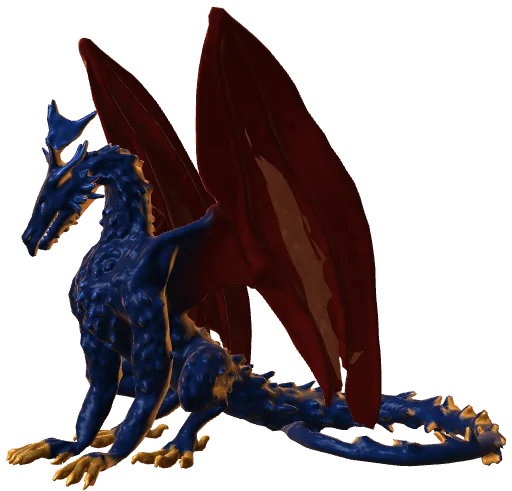
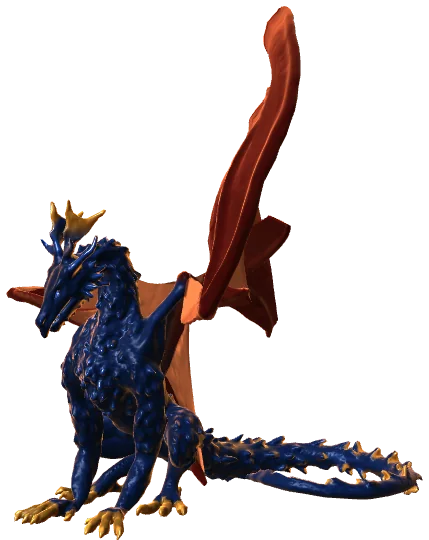
A grander dragon: wings that open at the roost, gold horns, a long sweep across the sun, larger at the breach

diff --git a/src/world/dragonStations.js b/src/world/dragonStations.js
@@ -59,7 +59,7 @@ export function createDragonStations({ live, phone, C }) {
   const LIGHT = {
     sea: { keyDir: [0.25, 0.9, 0.35], key: v('sea-ray', 0.95), lowDir: [0, -1, 0.2], low: v('sea-shallow', 0.5), amb: v('sea-shallow', 1.15), hide: v('dragon-hide', 1.25), belly: v('dragon-belly', 0.8), wing: v('dragon-wing', 0.9), rim: v('sea-ray', 0.9), glow: v('dragon-glow'), fogK: 0.0011, caust: 0.55, rimGain: 0.85, fire: 0.55, thin: 0.22, split: 0 },
     dusk: { keyDir: [0.5, 0.22, -0.7], key: v('sun', 1.5), lowDir: [-0.3, -0.8, 0.5], low: v('dusk-low', 0.4), amb: v('dusk-mid', 1.3), hide: v('dragon-hide', 1.6), belly: v('dragon-belly'), wing: v('dragon-wing'), rim: v('earth-rim', 1), glow: v('dragon-glow'), fog: v('dusk-low', 0.82), fogK: 0.0009, caust: 0, rimGain: 1.25, fire: 0.9, thin: 0.42, split: 1 },
-    night: { keyDir: [-0.5, 0.62, 0.6], key: v('moon-rim', 1.1), lowDir: [0.25, -0.85, 0.45], low: v('ember', 0.6), amb: v('night-low', 3.2), hide: v('dragon-hide'), belly: v('dragon-belly'), wing: v('dragon-wing'), rim: v('ember', 1), glow: v('dragon-glow'), fog: v('night-low'), fogK: 0, caust: 0, rimGain: 1.1, fire: 1.4, thin: 0.5, split: 0 },
+    night: { keyDir: [-0.5, 0.62, 0.6], key: v('moon-rim', 1.1), lowDir: [0.25, -0.85, 0.45], low: v('ember', 0.6), amb: v('night-low', 3.2), hide: v('dragon-hide'), belly: v('dragon-belly'), wing: v('dragon-wing'), rim: v('ember', 1), glow: v('dragon-glow'), fog: v('night-low'), fogK: 0, caust: 0, rimGain: 1.1, fire: 1.4, thin: 0.22, split: 0 },
     dawn: { keyDir: [-0.62, 0.12, -0.6], key: v('sun', 1.25), lowDir: [-0.3, -0.8, 0.5], low: v('earth-rim', 0.75), amb: v('night-low', 2.6), hide: v('dragon-hide'), belly: v('dragon-belly'), wing: v('dragon-wing'), rim: v('earth-rim', 1), glow: v('dragon-glow'), fog: v('night-low', 1.4), fogK: 0.0004, caust: 0, rimGain: 1.3, fire: 1, thin: 0.42, split: 0 },
   };
   let lit = '';
@@ -99,27 +99,29 @@ export function createDragonStations({ live, phone, C }) {
     const shore = anchorRect('shore');
     st.breach = null;
     if (shore && shore.h > 300) {
-      const size = phone ? Math.min(17, (w * 0.8) / MODEL.span) : Math.max(22, Math.min(34, w / 42));
+      const size = phone ? Math.min(17, (w * 0.8) / MODEL.span) : Math.max(24, Math.min(40, w / 36));
       // x in window widths, y in window heights (both from the middle), z in px
       const way = phone
         ? [
             [0.14, 0.95, 60],
             [0.16, 0.62, 40],
             [0.16, 0.3, 10],
-            [0.12, 0.04, -40],
-            [0.06, -0.2, -260],
-            [0.12, -0.2, -800],
-            [0.2, -0.12, -1500],
+            [0.06, 0.04, -40],
+            [-0.1, -0.14, -160],
+            [0.04, -0.2, -300],
+            [0.2, -0.16, -520],
+            [0.5, -0.2, -1200],
           ]
         : [
-            [0.26, 1.05, 80],
-            [0.25, 0.68, 60],
-            [0.24, 0.34, 20],
-            [0.24, 0.08, -60],
-            [0.25, -0.1, -260],
-            [0.26, -0.16, -700],
-            [0.225, -0.12, -1300],
-            [0.22, -0.08, -1900],
+            [0.25, 1.1, 80],
+            [0.24, 0.7, 60],
+            [0.22, 0.36, 20],
+            [0.17, 0.1, -40],
+            [0.08, -0.08, -160],
+            [0.12, -0.16, -320],
+            [0.24, -0.12, -480],
+            [0.38, -0.14, -800],
+            [0.52, -0.2, -1500],
           ];
       st.breach = { rect: shore, size, path: makePath(way), boxes: boxesOf(shore), band: [shore.top, shore.bottom] };
     }
@@ -143,13 +145,13 @@ export function createDragonStations({ live, phone, C }) {
       }
       const ceiling = over ? over.getBoundingClientRect().bottom + y0 + 10 : roost.top;
       // Head to the left and toward the reader, tail away to the right: about 12 units wide, 8.4 tall.
-      const wide = 13.5;
-      const reach = 5; // from the feet to the snout, on the screen
-      let size = Math.min((roost.h - 6) / (MODEL.tall + 0.9), (Math.min(roost.w, w - 2 * GUTTER) * (phone ? 0.98 : 0.6)) / wide);
+      const wide = 14.5;
+      const reach = 6.5; // from the feet to the snout, on the screen
+      let size = Math.min((roost.h - 6) / (MODEL.tall + 2.4), (Math.min(roost.w, w - 2 * GUTTER) * (phone ? 0.98 : 0.6)) / wide);
       const xFeet = phone ? roost.left + reach * size + 6 : roost.right - (wide - reach) * size - roost.w * 0.04;
       const open = !phone && (noteRight < 0 || noteRight + 28 < xFeet - reach * size);
       const top = open ? Math.min(roost.top, Math.max(ceiling, roost.top - 150)) : roost.top;
-      if (open) size = Math.min(size * 1.5, (roost.bottom - top - 6) / (MODEL.tall + 0.9));
+      if (open) size = Math.min(size * 1.5, (roost.bottom - top - 6) / (MODEL.tall + 2.4));
       const band = [top - (open ? 40 : 6), roost.bottom + 8];
       const cols = graph ? columnsOf(graph.el, Number(graph.el.dataset?.weeks) || 53) : null;
       // The section's calm ground opens over the band (v3-sections.css reads these).
@@ -301,8 +303,10 @@ export function createDragonStations({ live, phone, C }) {
         const x = s.xFeet - w / 2;
         const y = s.ground - f.line;
         const z = 0;
-        const settle = 1;
-        const face = [-0.82, 0, 0.57];
+        const face = [-0.62, 0, 0.78];
+        // Every so often it opens its wings, slowly, holds them, and folds them again.
+        const tt = landAt < 0 ? -1 : (f.t - landAt - 1.6) % 16;
+        const spread = still ? 0.85 : tt < 0 ? 0 : 0.92 * sm(tt / 3.6) * (1 - sm((tt - 8) / 3.6));
         // It looks out at the reader, slowly sweeps the ground, and glances at a chosen week.
         let yaw = -0.5 + 0.22 * Math.sin(f.t * 0.31) * (still ? 0 : 1);
         let pitch = 0.05;
@@ -314,7 +318,7 @@ export function createDragonStations({ live, phone, C }) {
         }
         light('night');
         guard(s, f);
-        live.update({ ...base, x, y, z, size: s.size, feet: true, fwd: face, up: [0, 1, -0.2 * settle], bank: 0, clips: { perch: 1 }, look: [yaw, pitch], show: sm(L), phase: 0.2 });
+        live.update({ ...base, x, y, z, size: s.size, feet: true, fwd: face, up: [0, 1, -0.26], bank: 0, spread, clips: { perch: 1 }, look: [yaw, pitch], show: sm(L), phase: 0.2 });
         shown.station = 'roost';
         shown.u = L;
         return 'roost';
@@ -324,17 +328,17 @@ export function createDragonStations({ live, phone, C }) {
     // 2 The breach.
     if (st.breach) {
       const s = st.breach;
-      const u = (f.scroll - (s.rect.top - h * 0.6)) / (h * 1.1);
+      const u = (f.scroll - (s.rect.top - h * 0.6)) / (h * 1.3);
       if (u > 0 && u < 1) {
         const e = sm(u * 1.04);
         s.path(e, a3);
         const z = a3[2];
         heading(s.path, e, 0.03, (cam.z - z) / cam.z, w, h);
-        const climb = 1 - sm((e - 0.5) / 0.3); // 1 while it goes straight up
+        const climb = 1 - sm((e - 0.36) / 0.22); // 1 while it goes straight up
         light('dusk');
         guard(s, f);
         // Going up its back is to the reader's left; as it levels off toward the sun the reader sees it from behind and below.
-        live.update({ ...base, x: a3[0] * w, y: a3[1] * h, z, size: s.size, fwd: [...fwd], up: [mix(-0.2, -0.62, climb), mix(1, 0.2, climb), mix(0.5, 0.76, climb)], bank: 0.25 * sm((e - 0.55) / 0.25), look: [0, -0.55], clips: { fly: 1 }, lean: mix(1.15, 1.5, climb), beat: mix(0.6, 0.85, climb), show: sm(u / 0.08) * (1 - sm((u - 0.86) / 0.12)), phase: 0.1 });
+        live.update({ ...base, x: a3[0] * w, y: a3[1] * h, z, size: s.size, fwd: [...fwd], up: [mix(-0.2, -0.62, climb), mix(1, 0.2, climb), mix(0.5, 0.76, climb)], bank: -0.3 * sm((e - 0.4) / 0.2) * (1 - sm((e - 0.8) / 0.2)), look: [0, -0.55], clips: { fly: 1 }, lean: mix(1.15, 1.5, climb), beat: mix(0.6, 0.85, climb), show: sm(u / 0.08) * (1 - sm((u - 0.86) / 0.12)), phase: 0.1 });
         shown.station = 'breach';
         shown.u = u;
         return 'breach';

diff --git a/src/world/dragon.js b/src/world/dragon.js
@@ -125,7 +125,7 @@ void main(){
   #endif
   float under_ = smoothstep(-0.15, -0.7, vRN.y) * body;   // belly, throat and the underside of the tail
   float back = smoothstep(0.35, 0.95, vRN.y) * body;
-  vec3 albedo = mix(uHide * (0.5 + 1.0 * d) * (1.0 - 0.25 * back), uBelly * (0.55 + 0.75 * d), max(under_, smoothstep(0.25, 0.7, claw)));
+  vec3 albedo = mix(uHide * (0.5 + 1.0 * d) * (1.0 - 0.25 * back), uBelly * (0.55 + 0.75 * d), max(max(under_, smoothstep(0.25, 0.7, claw)), vMask.g));
   // Wing skin: red, darker along its veins and bones.
   albedo = mix(albedo, uWing * (0.4 + 0.75 * d), skin);
 
@@ -136,7 +136,7 @@ void main(){
   // The sheen of the scales: a tight highlight and a broad, cooler one under it.
   vec3 H = normalize(uKeyDir + V);
   float nh = max(dot(N, H), 0.0);
-  col += (uKey * pow(nh, 48.0) * 0.7 + (uKey * 0.5 + uHide * 2.0) * pow(nh, 9.0) * 0.16) * body * (0.35 + 0.65 * d);
+  col += (uKey * pow(nh, 48.0) * 0.9 + uKey * pow(nh, 140.0) * 1.4 * d + (uKey * 0.5 + uHide * 2.0) * pow(nh, 9.0) * 0.2) * body * (0.35 + 0.65 * d);
   // Light through the wing: the far side lit shows on the near side, most when the reader looks toward the light.
   float thru = max(-ndl, 0.0) * (0.45 + 0.55 * pow(max(dot(V, -uKeyDir), 0.0), 2.0));
   col += uKey * uThin * mix(uWing * 2.6, uGlow, 0.38) * thru * skin * 2.2 * (0.25 + 0.75 * d);
@@ -243,7 +243,7 @@ export async function createDragon({ url, time, wet }) {
         else if (t === 2) claw += w;
       }
       mask[i * 4] = Math.round(255 * Math.min(1, (wing / (tot || 1)) * 1.6));
-      mask[i * 4 + 1] = 255;
+      mask[i * 4 + 1] = 0;
       mask[i * 4 + 2] = Math.round(255 * (claw / (tot || 1)));
       mask[i * 4 + 3] = 255;
     }
@@ -265,6 +265,8 @@ export async function createDragon({ url, time, wet }) {
     act[clip.name.toLowerCase()] = a;
   }
   const BEATS = 4; // wing beats in the Fly clip
+  const HORN = [-0.95, -0.5]; // in the stations' units along the skull from the head's joint at rest: behind the first it is horn, ahead of the second it is not
+  const SPREAD = [0.6, 0, 0.25, 0.7, 0.15]; // radians: root out, root back, root pitch, folds out, folds pitch
 
   /* The model arrives in its author's frame and size. Posed in a clip, it is measured
      and brought to the frame the stations think in: head toward +z, back toward +y,
@@ -293,6 +295,33 @@ export async function createDragon({ url, time, wet }) {
   const flyBox = measure('fly');
   const middle = flyBox.getCenter(new Vector3());
   for (const k in act) act[k].setEffectiveWeight(0);
+  /* The horns have no bones of their own: they are the part of the skull that stands
+     back from the head's joint at rest. G in the vertex colour marks them, for gold. */
+  {
+    const skull = named(/neck/i).pop();
+    const geo = main.geometry;
+    const si = geo.attributes.skinIndex;
+    const sw = geo.attributes.skinWeight;
+    const col = geo.attributes.color;
+    const idx = main.skeleton.bones.indexOf(skull);
+    const restM = new Matrix4().multiplyMatrices(main.skeleton.bones[0].matrixWorld, main.skeleton.boneInverses[0]);
+    const v = new Vector3();
+    const up = new Vector3(0, 1, 0);
+    // where the head's joint stands at rest, in the same frame as the rest vertices
+    const joint = skull ? new Vector3().applyMatrix4(new Matrix4().copy(main.skeleton.boneInverses[idx]).invert()).applyMatrix4(restM) : new Vector3();
+    const sm = (a, b, x) => {
+      const t = Math.max(0, Math.min(1, (x - a) / (b - a)));
+      return t * t * (3 - 2 * t);
+    };
+    for (let i = 0; skull && i < col.count; i++) {
+      let w = 0;
+      for (let k = 0; k < 4; k++) if (si.getComponent(i, k) === idx) w += sw.getComponent(i, k);
+      if (w < 0.5) continue;
+      v.fromBufferAttribute(geo.attributes.position, i).applyMatrix4(restM).sub(joint).applyAxisAngle(up, -yaw).multiplyScalar(scale);
+      col.setY(i, 1 - sm(HORN[0], HORN[1], v.z));
+    }
+    col.needsUpdate = true;
+  }
   const dims = (b) => b.getSize(new Vector3()).applyAxisAngle(new Vector3(0, 1, 0), -yaw).multiplyScalar(scale).toArray().map((v) => Math.round(Math.abs(v) * 10) / 10);
   const metrics = { sit: dims(sit), fly: dims(flyBox) }; // [across, tall, long] in the stations' units
 
@@ -327,6 +356,33 @@ export async function createDragon({ url, time, wet }) {
   const axis = new Vector3();
   const state = { x: 0, y: 0, shown: false };
   const neck = named(/^DEF-neck/i);
+  // The wings at the roost: each side's root, and the first bone of each fold of skin.
+  const wingRoot = { L: named(/Wing_Base\.?L/i), R: named(/Wing_Base\.?R/i) };
+  const wingFold = { L: named(/Wing_Fold_\d\.?L/i), R: named(/Wing_Fold_\d\.?R/i) };
+  const turnBone = (b, ax, angle) => {
+    b.parent.updateWorldMatrix(true, false);
+    b.parent.getWorldQuaternion(q0);
+    q1.setFromAxisAngle(ax, angle);
+    q2.copy(q0).invert().multiply(q1).multiply(q0);
+    b.quaternion.premultiply(q2);
+  };
+  /* Sitting, it opens its wings: `k` is 0 folded (the clip) to 1 spread. The roots swing
+     out and up from the back, and the folds of skin fan open after them. `tune` is for the
+     kit demo only. */
+  function unfurl(k, tune = SPREAD) {
+    if (k < 1e-3) return;
+    for (const [side, sg] of [['L', 1], ['R', -1]]) {
+      for (const b of wingRoot[side]) {
+        turnBone(b, axis.copy(Z), -sg * tune[0] * k);
+        turnBone(b, axis.copy(Y), sg * tune[1] * k);
+        turnBone(b, axis.copy(X), tune[2] * k);
+      }
+      wingFold[side].forEach((b, i) => {
+        turnBone(b, axis.copy(Z), -sg * tune[3] * k * (0.4 + 0.3 * i));
+        turnBone(b, axis.copy(X), tune[4] * k * (0.4 + 0.3 * i));
+      });
+    }
+  }
 
   /* Turn the neck and head by `yaw` (toward the creature's left) and `pitch` (down)
      radians, shared along the neck, about the creature's own axes. */
@@ -350,7 +406,7 @@ export async function createDragon({ url, time, wet }) {
      size (px a model unit at depth 0), fwd [x, y, z] and up [x, y, z] (world: x right, y up,
      z toward the reader), bank (radians), feet (the place given is where it stands),
      lean (radians: in flight the model hovers upright; this tips it nose down toward level),
-     clips { fly, glide, perch, stand } (weights; glide is the Fly clip), beat (wing beats a
+     spread (0 to 1: sitting, the wings open), clips { fly, glide, perch, stand } (weights; glide is the Fly clip), beat (wing beats a
      second), look [yaw, pitch], show (0 to 1), dpr, resY, still, phase } */
   function update(pose) {
     const show = pose.show ?? 0;
@@ -395,6 +451,7 @@ export async function createDragon({ url, time, wet }) {
       mixer.update(0);
     } else mixer.update(dt);
     if (pose.look) look(pose.look[0], pose.look[1]);
+    if (pose.spread) unfurl(pose.spread, pose.tune);
   }
 
   /** p: { keyDir, key, lowDir, low, amb, hide, belly, wing, rim, glow, fog (Vector3s or [r,g,b]), fogK, caust, rimGain, fire, thin, split } */

diff --git a/src/world/demo.js b/src/world/demo.js
@@ -8,7 +8,7 @@ import { createDragon } from './dragon';
    ?pitch=deg   ?bank=deg   ?size=px per unit   ?lite (the phone file)   ?still   ?t=seconds   ?bare (no label)   ?bg=hex|none
 
    public/dragon/perch.webp (the still that stands on the roost under reduced motion) is a
-   screenshot of ?clip=perch&light=night&yaw=145&look=-28&still&bare&bg=none with no page ground. */
+   screenshot of ?clip=perch&light=night&yaw=128&look=-28&spread=0.85&still&bare&bg=none with no page ground. */
 const q = new URLSearchParams(location.search);
 const root = document.documentElement;
 if (q.has('bare')) root.dataset.bare = '';
@@ -26,7 +26,7 @@ const v = (r, g, b, k = 1) => new Vector3((r / 255) * k, (g / 255) * k, (b / 255
 const LIGHT = {
   sea: { keyDir: [0.25, 0.9, 0.35], key: v(150, 232, 232, 0.95), lowDir: [0, -1, 0.2], low: v(15, 84, 96, 0.5), amb: v(15, 84, 96, 0.7), hide: v(16, 56, 156), belly: v(226, 172, 52), wing: v(150, 28, 24), rim: v(150, 232, 232, 0.9), glow: v(255, 150, 60), fog: v(6, 40, 50), fogK: 0, caust: 0.55, rimGain: 0.85, fire: 0.55, thin: 0.5 },
   dusk: { keyDir: [0.5, 0.22, -0.7], key: v(255, 226, 178, 1.5), lowDir: [-0.3, -0.8, 0.5], low: v(226, 120, 64, 0.4), amb: v(104, 52, 74, 0.95), hide: v(16, 56, 156), belly: v(226, 172, 52), wing: v(150, 28, 24), rim: v(255, 190, 136), glow: v(255, 150, 60), fog: v(226, 120, 64), fogK: 0, caust: 0, rimGain: 1.25, fire: 0.9, thin: 0.72 },
-  night: { keyDir: [-0.5, 0.62, 0.6], key: v(246, 230, 210, 0.8), lowDir: [0.25, -0.85, 0.45], low: v(255, 150, 84, 0.34), amb: v(30, 22, 20, 2.6), hide: v(16, 56, 156), belly: v(226, 172, 52), wing: v(150, 28, 24), rim: v(255, 150, 84, 0.8), glow: v(255, 150, 60), fog: v(30, 22, 20), fogK: 0, caust: 0, rimGain: 0.7, fire: 1.25, thin: 0.5 },
+  night: { keyDir: [-0.5, 0.62, 0.6], key: v(246, 230, 210, 0.8), lowDir: [0.25, -0.85, 0.45], low: v(255, 150, 84, 0.34), amb: v(30, 22, 20, 2.6), hide: v(16, 56, 156), belly: v(226, 172, 52), wing: v(150, 28, 24), rim: v(255, 150, 84, 0.8), glow: v(255, 150, 60), fog: v(30, 22, 20), fogK: 0, caust: 0, rimGain: 1.1, fire: 1.4, thin: 0.22 },
 };
 LIGHT.dawn = { ...LIGHT.dusk, keyDir: [-0.62, 0.12, -0.6], amb: v(30, 22, 20, 1.7) };
 live.light(LIGHT[q.get('light')] ?? LIGHT.night);
@@ -60,7 +60,7 @@ function frame(ms) {
   const pitch = num('pitch', 0) * rad;
   const fwd = [Math.cos(yaw) * Math.cos(pitch), Math.sin(pitch), Math.sin(yaw) * Math.cos(pitch)];
   const perch = clip === 'perch' || clip === 'stand';
-  const pose = { t, cam: { x: 0, y: 0, z: camZ }, x: num('x', 0), y: num('y', perch ? h * 0.2 : 0), z: num('z', 0), size: num('size', Math.min(w / 17, h / 11)), feet: perch, fwd, up: [0, 1, 0], bank: num('bank', 0) * rad, clips: { [clip]: 1 }, lean: num('lean', 0) * rad, beat: num('beat', 0.7), look: [num('look', 0) * rad, num('nod', 0) * rad], show: 1, dpr, resY: Math.floor(h * dpr), phase: num('phase', 0.3) };
+  const pose = { t, cam: { x: 0, y: 0, z: camZ }, x: num('x', 0), y: num('y', perch ? h * 0.2 : 0), z: num('z', 0), size: num('size', Math.min(w / 17, h / 11)), feet: perch, fwd, up: [0, 1, 0], bank: num('bank', 0) * rad, clips: { [clip]: 1 }, lean: num('lean', 0) * rad, beat: num('beat', 0.7), look: [num('look', 0) * rad, num('nod', 0) * rad], spread: num('spread', 0), tune: q.has('tune') ? q.get('tune').split(',').map(Number) : undefined, show: 1, dpr, resY: Math.floor(h * dpr), phase: num('phase', 0.3) };
   if (still) live.still(pose);
   else live.update(pose);
   renderer.render(scene, camera);

diff --git a/src/styles/v3-sections.css b/src/styles/v3-sections.css
@@ -2224,12 +2224,12 @@ html[data-world='on'] .deep-head::before {
    should stand (the scene fits it to the band). With no scene drawing there is
    nothing to leave room for; under reduced motion the band holds a still of it. */
 .pow-roost {
-  height: clamp(280px, 48svh, 460px);
+  height: clamp(300px, 54svh, 520px);
 }
 
 @media (max-width: 560px) {
   .pow-roost {
-    height: clamp(200px, 30svh, 250px);
+    height: clamp(230px, 36svh, 300px);
   }
 }
 

diff --git a/CLAUDE.md b/CLAUDE.md
@@ -132,11 +132,12 @@ first waterline, the sea ends at the shore, then dusk, night and dawn over a des
 - **The earth is a coast** (`lib/worldLand.js`; Vidyut, Nov 16: the flat buttes were "bland and
   boring", the camp had "two tents"). One heightfield, sea level at y = 0: the beach with surf
   where the reader comes out of the water, the camp on a rise (nine tents, banners, crates,
-  eight figures, loose rock, a worn path), an inlet of the sea running away toward the sun,
+  eight figures, loose rock, a worn path, grass in tufts), an inlet of the sea running away toward the sun,
   foothills, then two ranges of ridged mountains, the far one snow-capped. The ranges part
   where the inlet runs, so the sun sets down the water; on a narrow window the inlet narrows
-  so the mountains stay in view. Rock, scrub and snow are `--land-rock`, `--land-scrub`,
-  `--land-snow`. Do not flatten it back to dunes and mesas.
+  so the mountains stay in view. Pine stands grow on the lower slopes (never between the reader and the
+  camp), and the near shore is green. Rock, scrub, snow and green are `--land-rock`,
+  `--land-scrub`, `--land-snow`, `--land-green`. The camp, the pines and the grass are one mesh. Do not flatten it back to dunes and mesas.
 - One unit is one CSS pixel on the plane z = 0; depth is parallax. The scene reads the page:
   an element marked `data-world-anchor="<name>"` (names in `ANCHOR`, `data/world.js`) is
   where a piece lives, and layout runs again whenever the page height changes.
@@ -180,7 +181,8 @@ no Receipts line.
   eyes, a soft rim (`--dragon-hide`, `--dragon-belly`, `--dragon-wing`, `--dragon-glow`; its
   yellow is its own, `--win` stays the awards' gold). Only the light and dark of the model's
   base colour and its normal map are used. Which part is which comes from the skin weights at
-  load (wing bones, toe bones). It is lit by the place it is in (`LIGHT` in
+  load (wing bones, toe bones); the horns have no bones, so they are the part of the skull
+  behind the head's joint at rest, and they are gold too. It is lit by the place it is in (`LIGHT` in
   `dragonStations.js`). A depth-only pass is drawn first so a fade never shows the far wing
   through the near one.
 - **The Fly clip hovers upright.** `lean` (about 1.2 rad) tips it toward level for the passes;
@@ -188,8 +190,9 @@ no Receipts line.
   frame (head toward +z, 8.4 units tall sitting), so another model can be swapped in.
 - **Four stations and nowhere else, and grand**: big in frame, slow wingbeats (0.4 to 0.85 a
   second). One lap across the giant's face; the breach as the reader comes up through the
-  surface, then across the low sun; the roost (it sits on the commit card on watch, turning
-  its head; choosing a week makes it look at that column); a low pass over the limb at
+  surface, then a long sweep across the low sun; the roost (it sits on the commit card on watch, turning
+  its head and, every sixteen seconds, slowly opening its wings: `unfurl` turns the wing
+  bones over the Idle Sit clip; choosing a week makes it look at that column); a low pass over the limb at
   Contact and, when the email is copied, the flight into the dawn.
 - **It loads last.** Its code is a chunk of its own (GLTFLoader and the meshopt decoder),
   asked for by `World.jsx` only after the world has drawn its first frame and the page is
